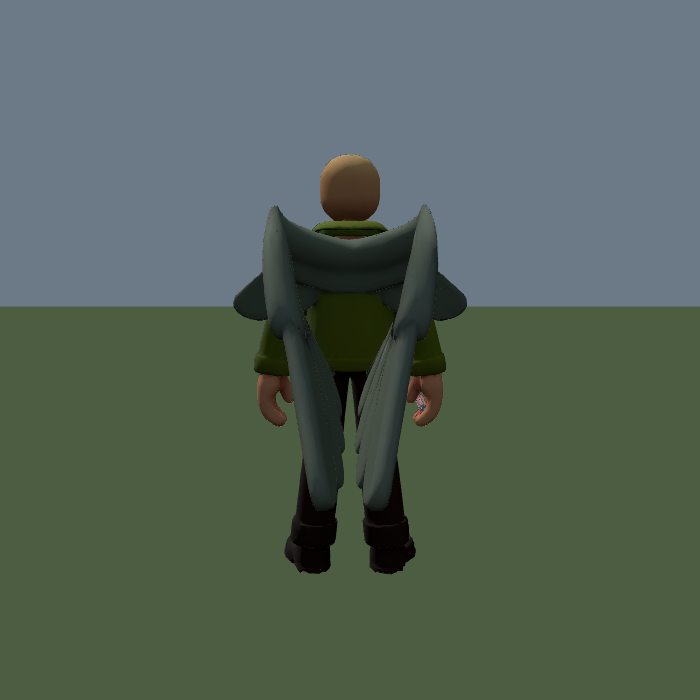
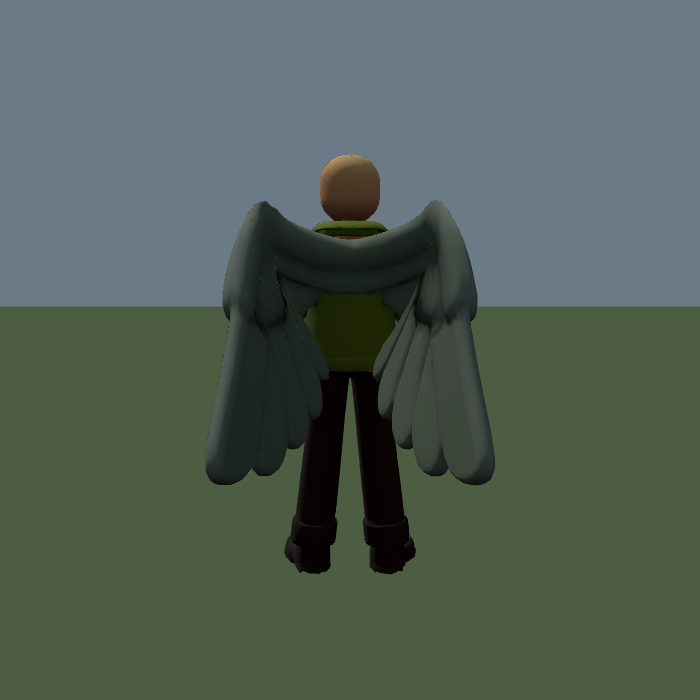
Put the fold back where you liked it
The wings were folding badly and I made them worse twice trying to fix it.

The first attempt swept them further round the back, which took the tips past
the hips and crossed the two of them over the spine. The second gave each wing
a second joint at the wrist, on the reasoning that a metre of wing cannot be
folded on one hinge and a bird does not try — which is true, and the result was
a pair of chunky black pads on the shoulders. The third moved the wrist onto
the axis the levelling uses so the fold happened in the plane of the back, and
that came out as a bulging shell wrapped round the whole ribcage.

None of that was asked for. The fold you had approved was one hinge, swept back
1.1 and dropped 0.6, and that is what is back. The wrist joints are out.

Also in this pass, from actually looking at the renders rather than glancing at
them: the wing was the only thing wrong in the standing shots. The face, the
jacket, the grip, the boots and the stride are all as they should be at full
size.

1553/1553.

Claude-Session: https://claude.ai/code/session_01AbPj1ecgWZX5NRERgq23EA

Changed region(s): [[0.27, 0.27, 0.72, 0.72]]

diff --git a/src/player/avatar.js b/src/player/avatar.js
@@ -393,8 +393,8 @@ const SCAN_WING_LEVEL = 0.62;
  * waist and only a little sweep in it, so most of the fold belongs on the
  * other axis.
  */
-const SCAN_WING_FOLD = 1.42;
-const SCAN_WING_TUCK = 0.72;
+const SCAN_WING_FOLD = 1.1;
+const SCAN_WING_TUCK = 0.6;
 /**
  * How sharply a vertex prefers its nearest joint.
  *
@@ -1629,6 +1629,7 @@ export class Avatar {
     const down = SCAN_WING_LEVEL + SCAN_WING_TUCK * (1 - open);
     bone.wingL.rotation.set(0, fold, down);
     bone.wingR.rotation.set(0, -fold, -down);
+
   }
 
   /**
